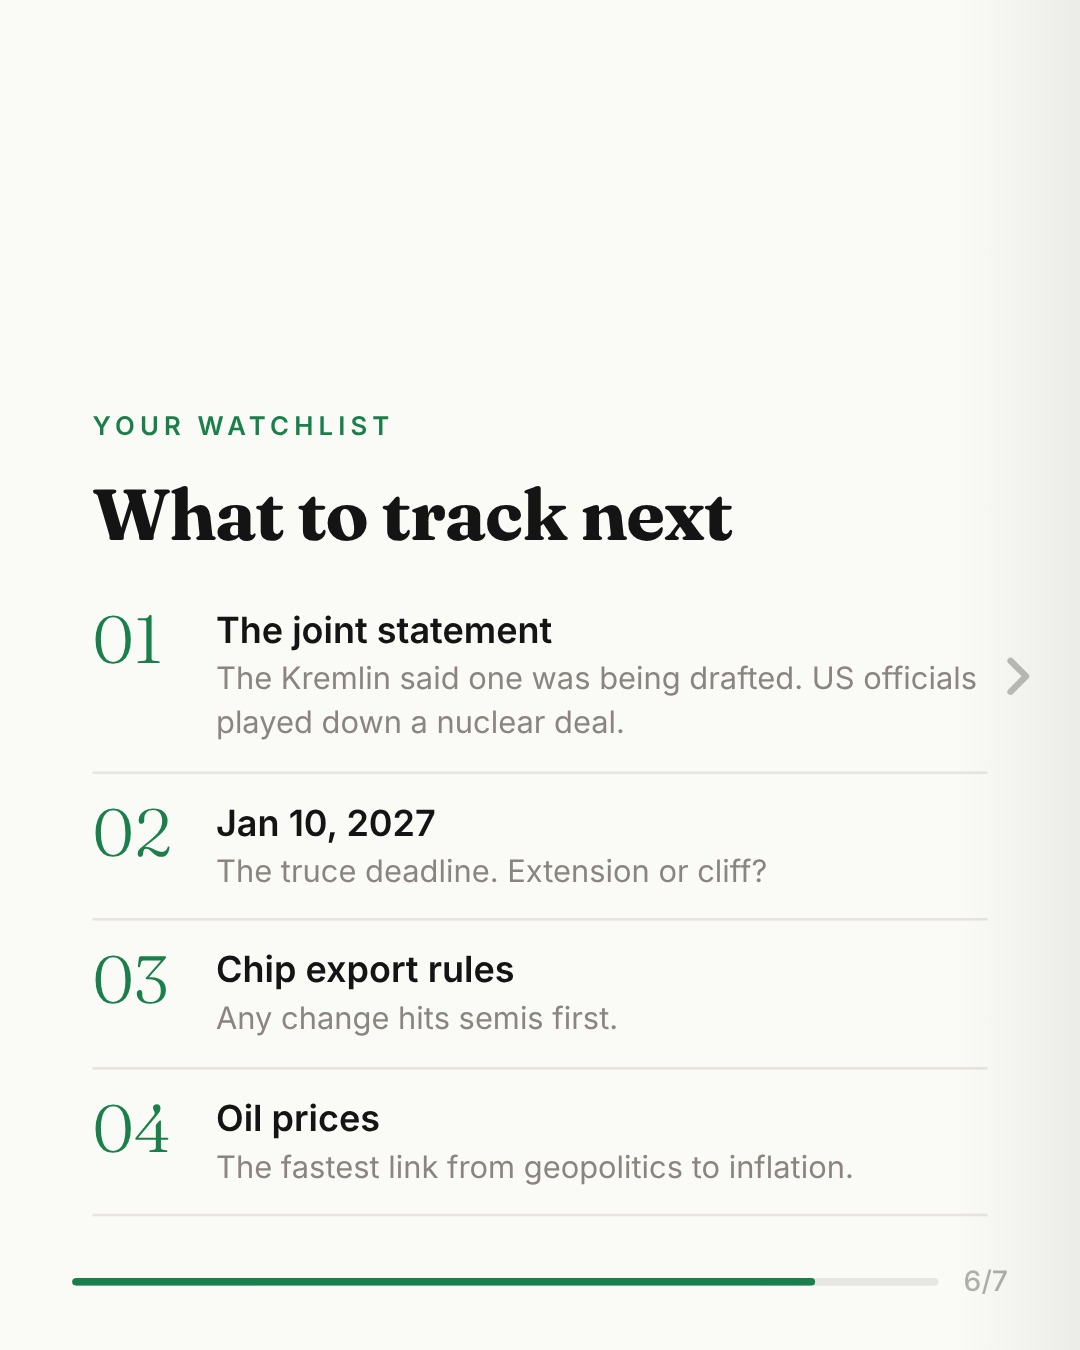
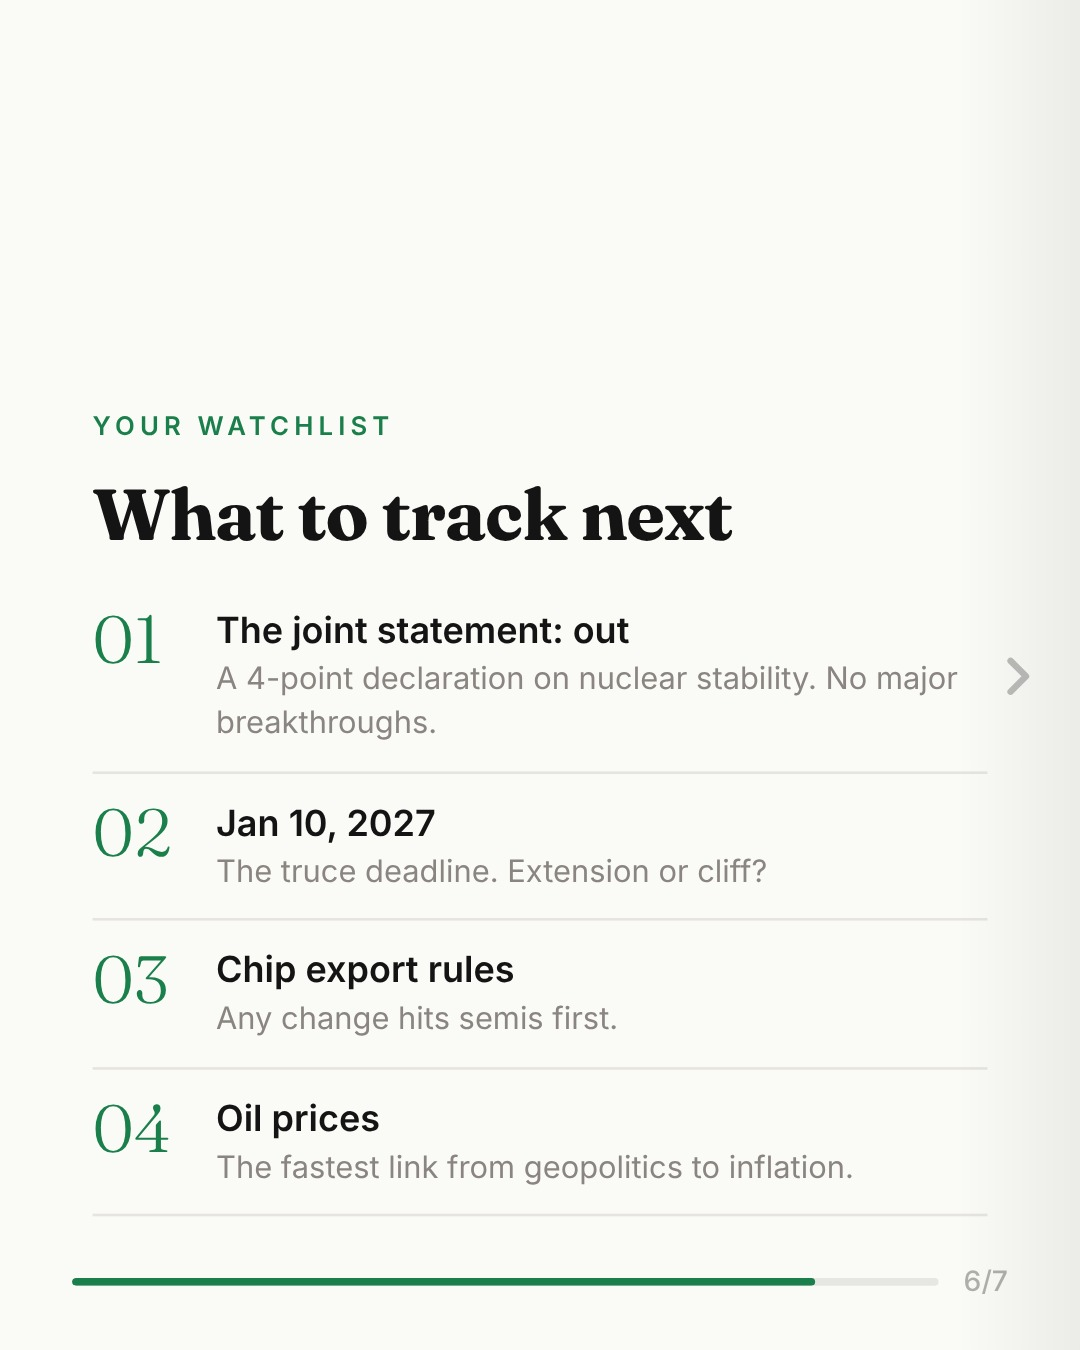
Geopolitics carousel: add Shenzhen joint declaration outcome
Claude-Session: https://claude.ai/code/session_01HEfkBjtX9jJLAwHVacHrK9

Changed region(s): [[0.1833, 0.4356, 0.9167, 0.56]]

diff --git a/instagram/panic-and-profit/daily/2026-11-19-geo/carousel.html b/instagram/panic-and-profit/daily/2026-11-19-geo/carousel.html
@@ -80,7 +80,7 @@ body{background:#ECEBE6;font-family:'Inter',sans-serif;display:flex;justify-cont
 <h2 class="serif" style="font-size:28px;font-weight:700;line-height:1.1;letter-spacing:-0.4px;color:#141414;margin-bottom:10px;">What to track next</h2>
 <div style="display:flex;align-items:flex-start;gap:14px;padding:10px 0;border-bottom:1px solid #E6E4DE;">
 <span class="serif" style="font-size:26px;font-weight:300;color:#1B7F4B;min-width:34px;line-height:1;">01</span>
-<div><div class="sans" style="font-size:14px;font-weight:600;color:#141414;">The joint statement</div><div class="sans" style="font-size:12px;color:#8A8580;line-height:1.45;margin-top:2px;">The Kremlin said one was being drafted. US officials played down a nuclear deal.</div></div></div>
+<div><div class="sans" style="font-size:14px;font-weight:600;color:#141414;">The joint statement: out</div><div class="sans" style="font-size:12px;color:#8A8580;line-height:1.45;margin-top:2px;">A 4-point declaration on nuclear stability. No major breakthroughs.</div></div></div>
 <div style="display:flex;align-items:flex-start;gap:14px;padding:10px 0;border-bottom:1px solid #E6E4DE;">
 <span class="serif" style="font-size:26px;font-weight:300;color:#1B7F4B;min-width:34px;line-height:1;">02</span>
 <div><div class="sans" style="font-size:14px;font-weight:600;color:#141414;">Jan 10, 2027</div><div class="sans" style="font-size:12px;color:#8A8580;line-height:1.45;margin-top:2px;">The truce deadline. Extension or cliff?</div></div></div>

diff --git a/instagram/panic-and-profit/daily/2026-11-19-geo/build.py b/instagram/panic-and-profit/daily/2026-11-19-geo/build.py
@@ -101,7 +101,7 @@ def step(n,t,d):
 <div><div class="sans" style="font-size:14px;font-weight:600;color:{INK};">{t}</div><div class="sans" style="font-size:12px;color:#8A8580;line-height:1.45;margin-top:2px;">{d}</div></div></div>'''
 b6=f'''{tag("YOUR WATCHLIST", P)}
 {H2("What to track next")}
-{step("01","The joint statement","The Kremlin said one was being drafted. US officials played down a nuclear deal.")}
+{step("01","The joint statement: out","A 4-point declaration on nuclear stability. No major breakthroughs.")}
 {step("02","Jan 10, 2027","The truce deadline. Extension or cliff?")}
 {step("03","Chip export rules","Any change hits semis first.")}
 {step("04","Oil prices","The fastest link from geopolitics to inflation.")}'''

diff --git a/instagram/panic-and-profit/daily/2026-11-19-geo/sources.md b/instagram/panic-and-profit/daily/2026-11-19-geo/sources.md
@@ -12,3 +12,5 @@
 | Nvidia Q4 guide assumes no China data-center compute revenue | Nvidia Q3 FY2027 release via StockTitan https://www.stocktitan.net/news/NVDA/nvidia-announces-financial-results-for-third-quarter-fiscal-fpx9dw5egxqa.html · TradingKey |
 
 Outcome of the trilateral not yet reported at draft time (07:00 Lisbon) — update slide 6/caption before export if a statement is published.
+
+| Outcome: 4-point joint declaration (nuclear stability, "a nuclear war cannot be won"); no major breakthroughs; Ukraine not addressed | Al Jazeera https://www.aljazeera.com/news/2026/11/19/groundbreaking-trump-xi-putin-summit-five-key-takeaways · CNN https://www.cnn.com/2026/11/17/politics/live-news/trump-visit-china-philippines · CFR https://www.cfr.org/articles/six-experts-on-what-trump-xi-and-putins-first-trilateral-means · Jerusalem Post https://www.jpost.com/international/article-915519 |
